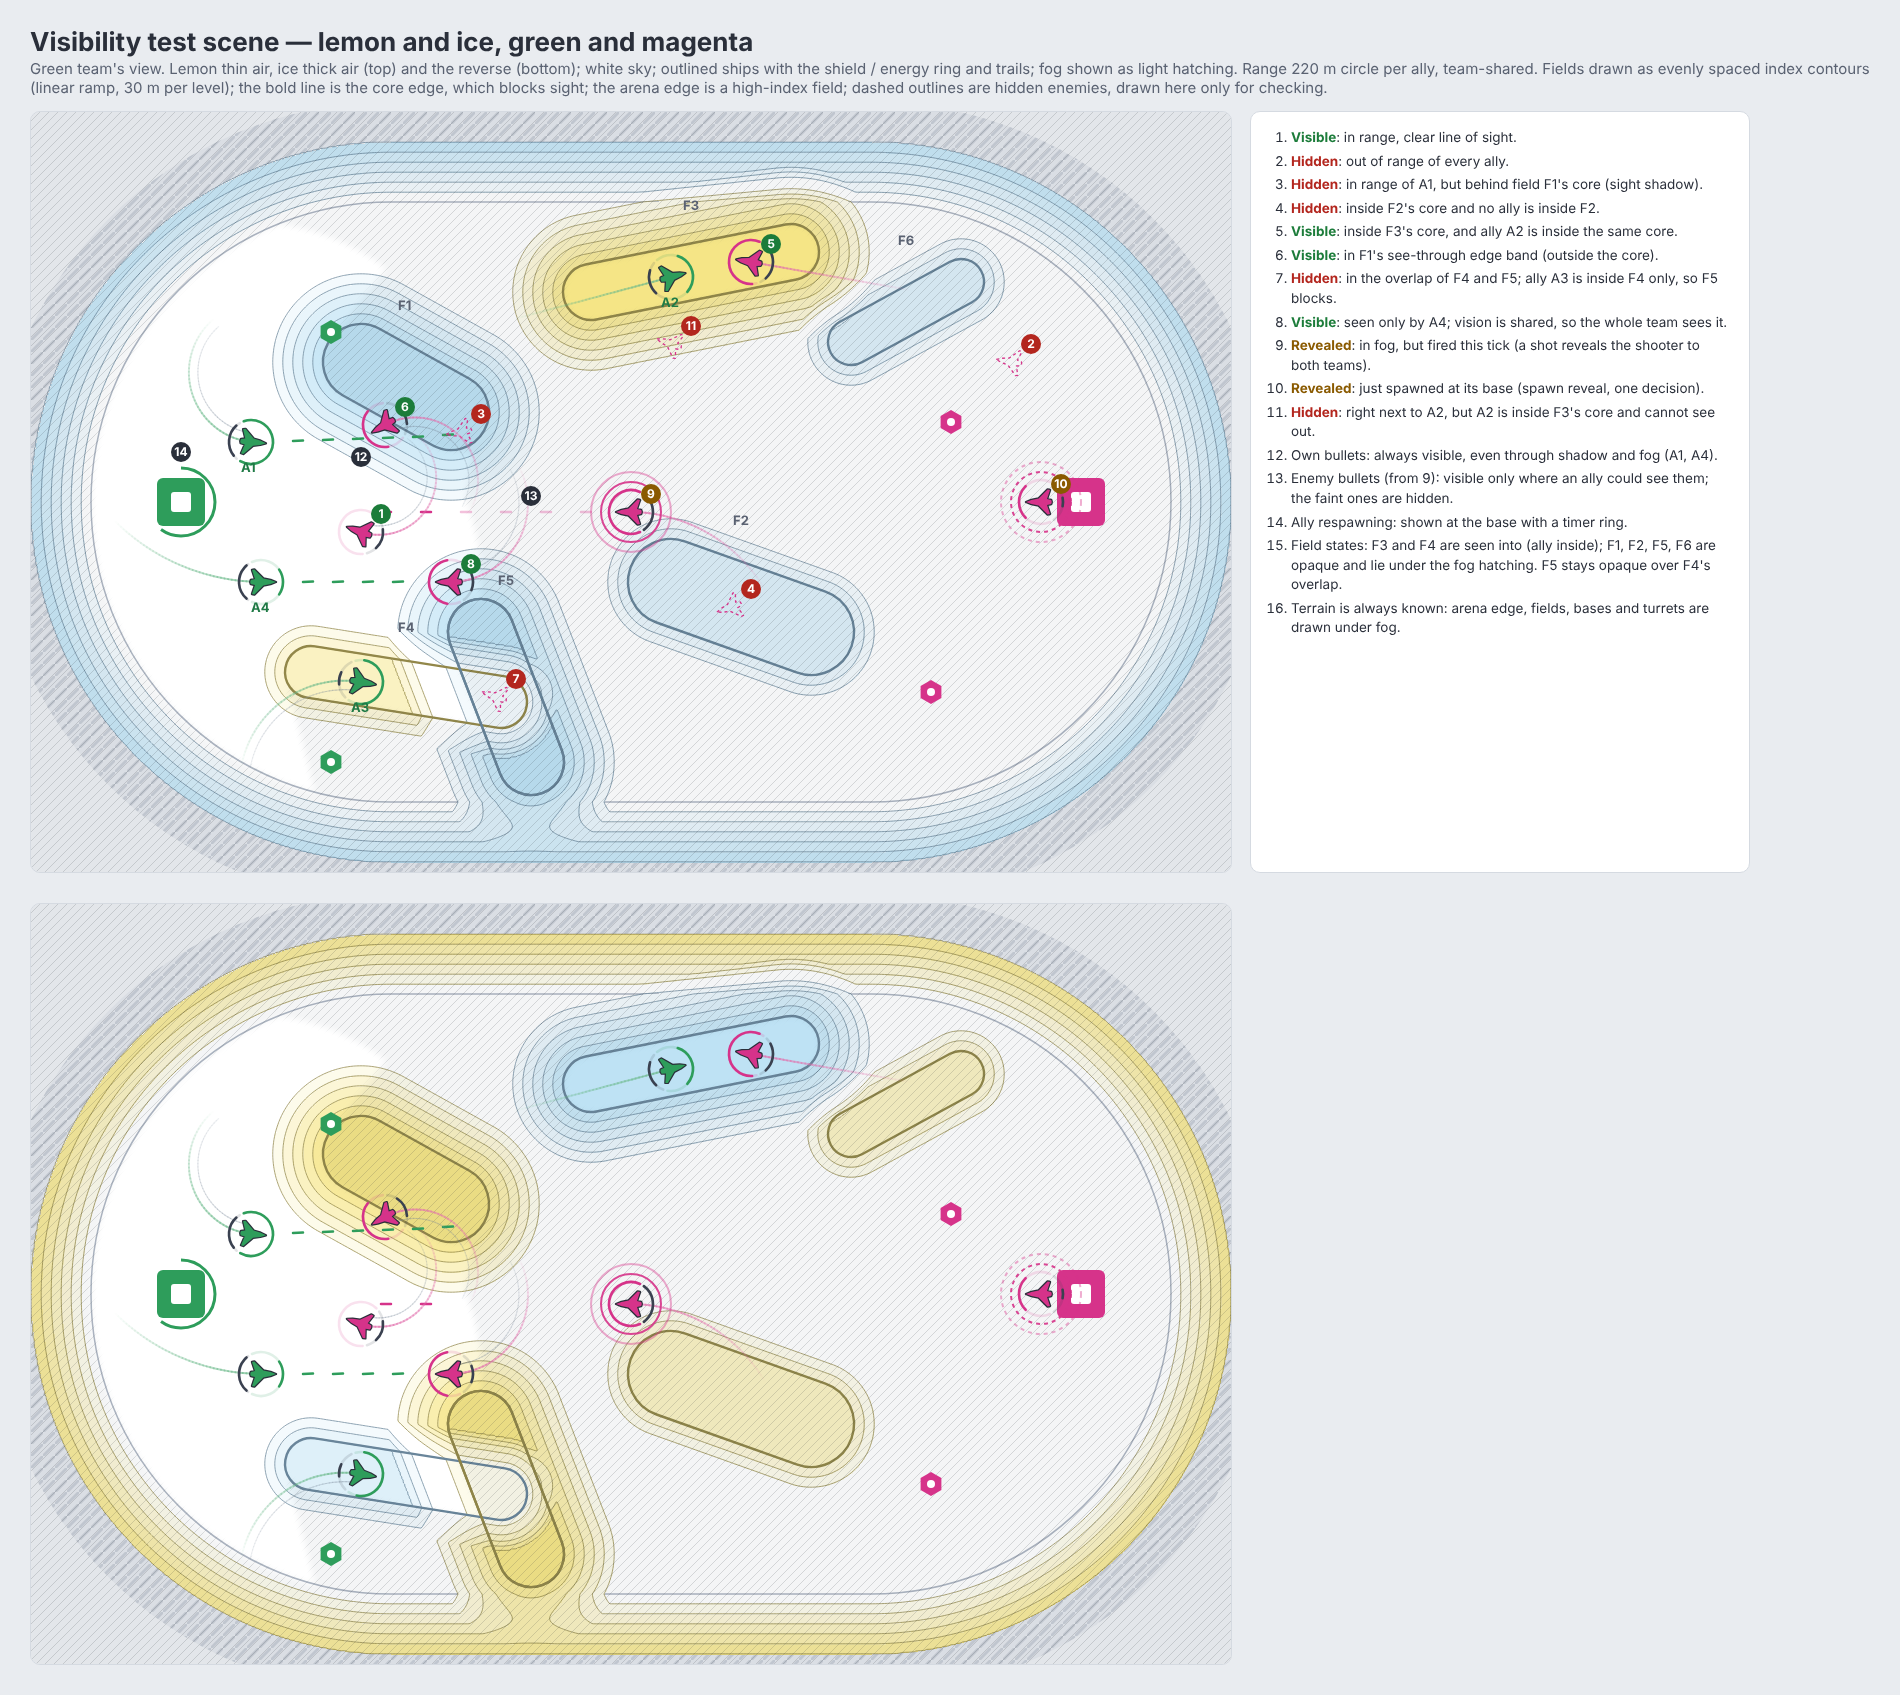
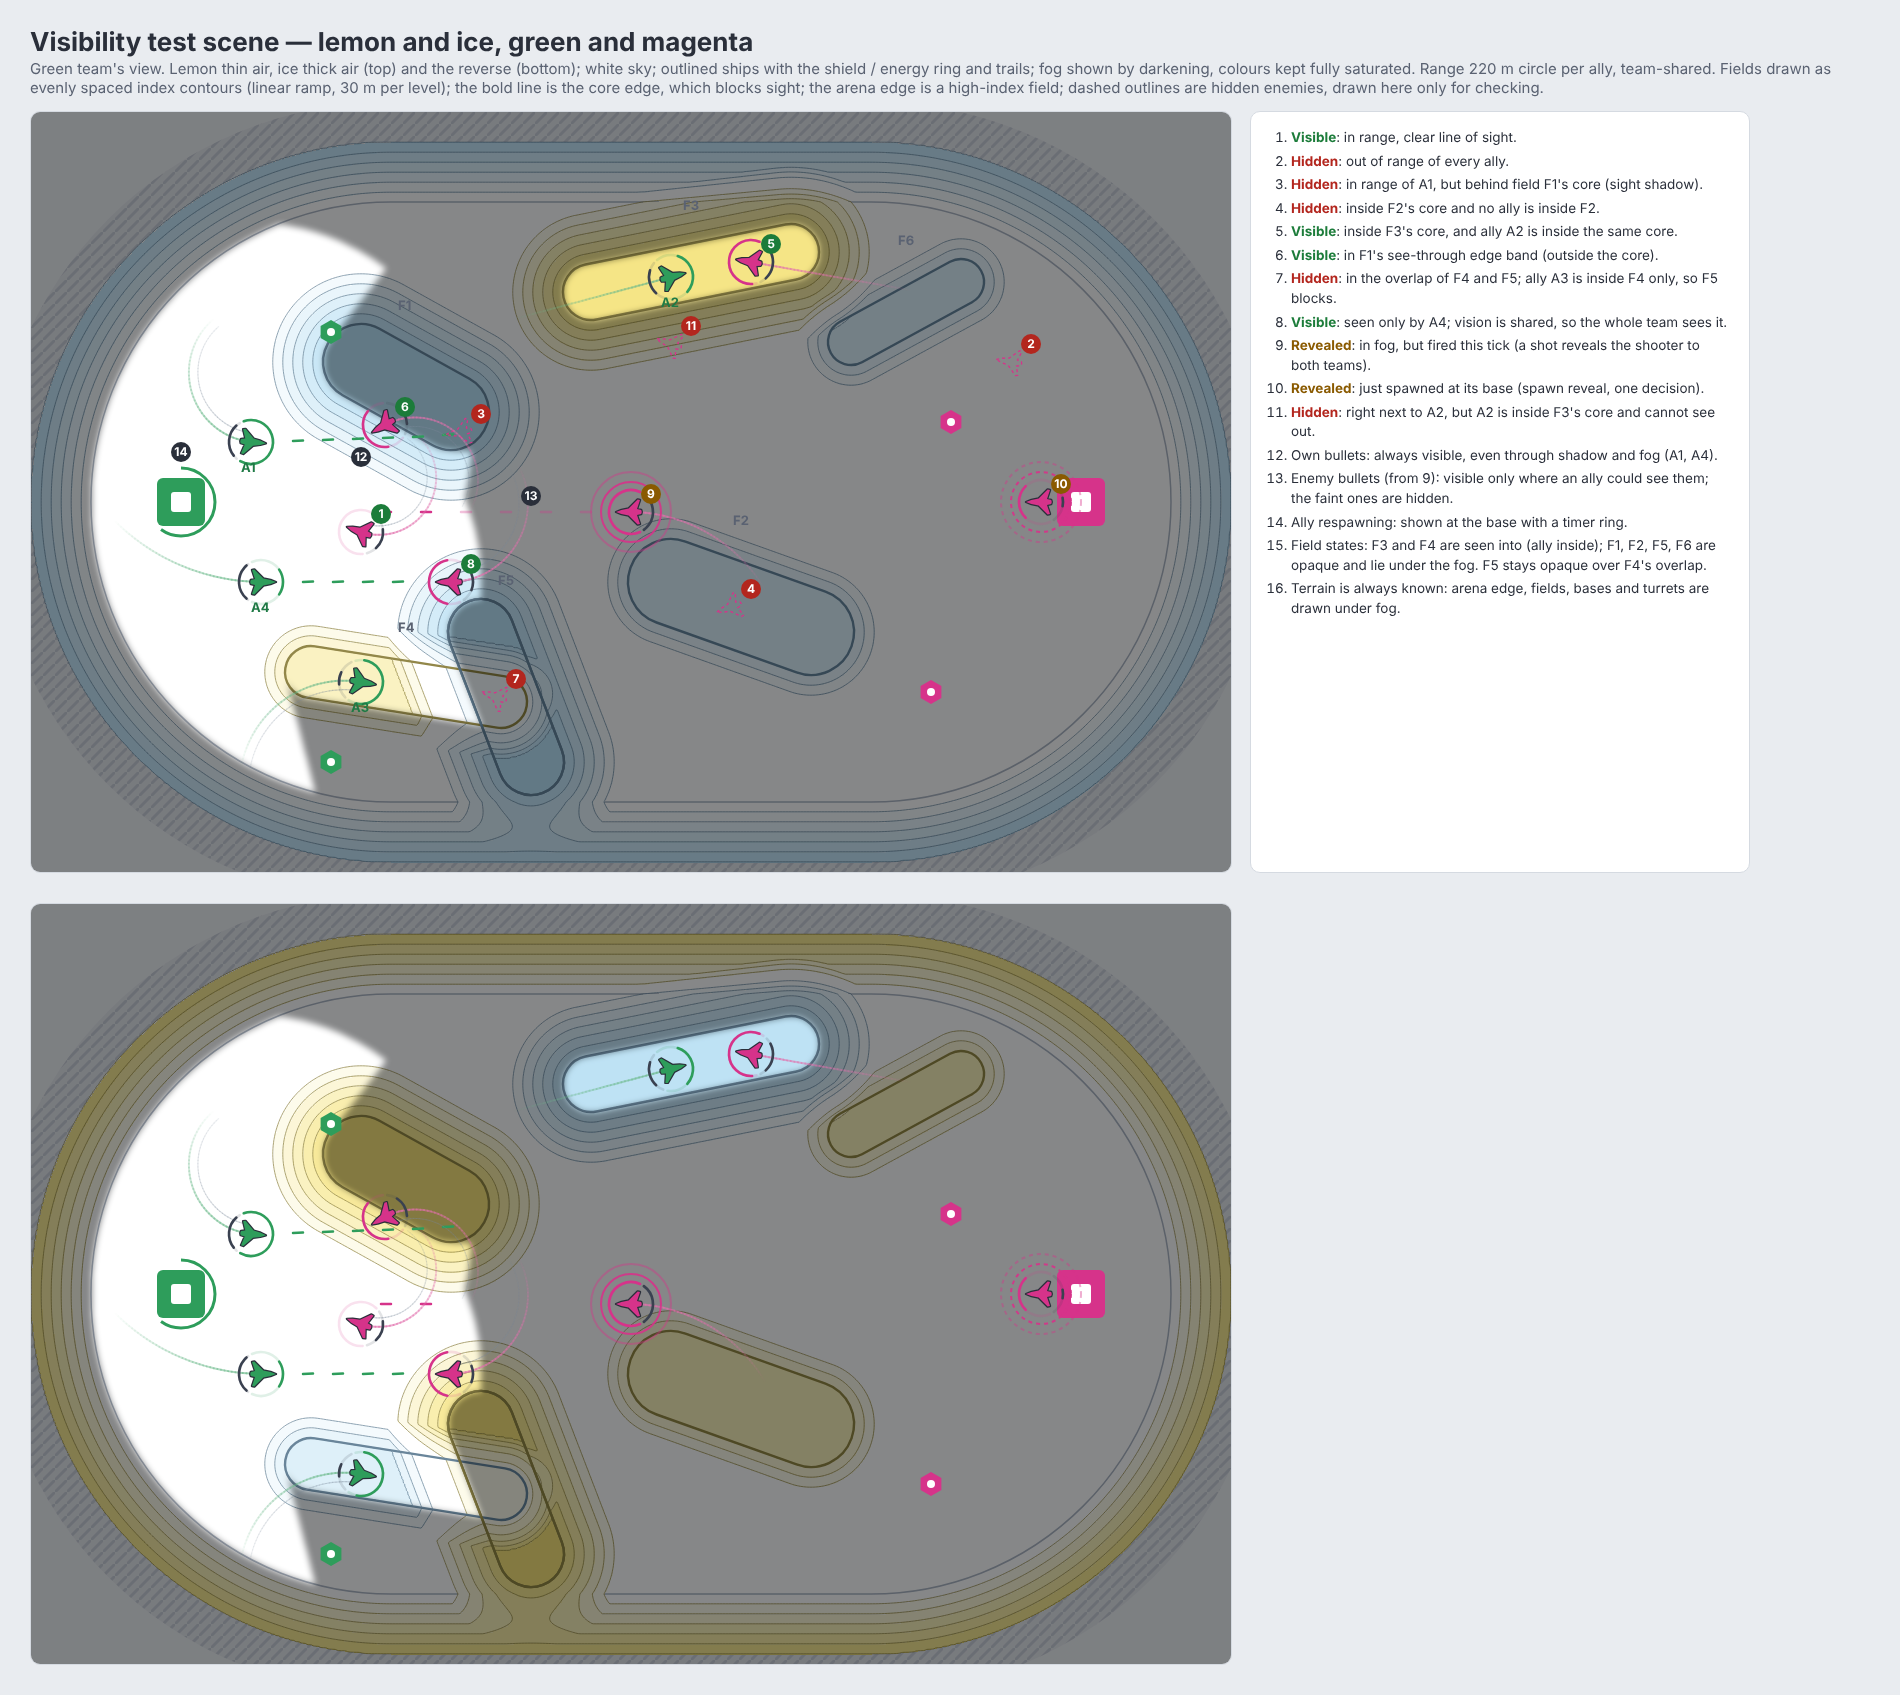
Show fog by darkening with full saturation
Claude-Session: https://claude.ai/code/session_01P1Nd21yxzZCeBGaTPvX14D

diff --git a/docs/rewrite/visual-mockups/test-lemon.html b/docs/rewrite/visual-mockups/test-lemon.html
@@ -6,7 +6,7 @@ ol{margin:0;padding:16px 18px 16px 40px;background:#fff;border:1px solid #D5DAE1
 li{margin-bottom:4px}b.v{color:#1C7C3A}b.h{color:#B3261E}b.r{color:#8A5A00}
 </style></head><body>
 <h1>Visibility test scene — lemon and ice, green and magenta</h1>
-<p class="sub">Green team's view. Lemon thin air, ice thick air (top) and the reverse (bottom); white sky; outlined ships with the shield / energy ring and trails; fog shown as light hatching. Range 220 m circle per ally, team-shared. Fields drawn as evenly spaced index contours (linear ramp, 30 m per level); the bold line is the core edge, which blocks sight; the arena edge is a high-index field; dashed outlines are hidden enemies, drawn here only for checking.</p>
+<p class="sub">Green team's view. Lemon thin air, ice thick air (top) and the reverse (bottom); white sky; outlined ships with the shield / energy ring and trails; fog shown by darkening, colours kept fully saturated. Range 220 m circle per ally, team-shared. Fields drawn as evenly spaced index contours (linear ramp, 30 m per level); the bold line is the core edge, which blocks sight; the arena edge is a high-index field; dashed outlines are hidden enemies, drawn here only for checking.</p>
 <div class="row"><canvas id="c" width="1200" height="760"></canvas><ol>
 <li><b class="v">Visible</b>: in range, clear line of sight.</li>
 <li><b class="h">Hidden</b>: out of range of every ally.</li>
@@ -22,7 +22,7 @@ li{margin-bottom:4px}b.v{color:#1C7C3A}b.h{color:#B3261E}b.r{color:#8A5A00}
 <li>Own bullets: always visible, even through shadow and fog (A1, A4).</li>
 <li>Enemy bullets (from 9): visible only where an ally could see them; the faint ones are hidden.</li>
 <li>Ally respawning: shown at the base with a timer ring.</li>
-<li>Field states: F3 and F4 are seen into (ally inside); F1, F2, F5, F6 are opaque and lie under the fog hatching. F5 stays opaque over F4's overlap.</li>
+<li>Field states: F3 and F4 are seen into (ally inside); F1, F2, F5, F6 are opaque and lie under the fog. F5 stays opaque over F4's overlap.</li>
 <li>Terrain is always known: arena edge, fields, bases and turrets are drawn under fog.</li>
 </ol></div>
 <div class="row"><canvas id="c2" width="1200" height="760"></canvas></div>
@@ -33,8 +33,7 @@ const mk=(lo,hi,name)=>Object.assign({},STYLES[0],{name,contourMap:1,perLevel:3,
   lowInk:'rgba('+mixHex(lo,'#1c2030',.45).join(',')+',.75)',highInk:'rgba('+mixHex(hi,'#1c2030',.45).join(',')+',.75)',minorW:1,majorW:1,
   thin:'#'+mixHex(lo,'#1c2030',.45).map(v=>v.toString(16).padStart(2,'0')).join(''),thick:'#'+mixHex(hi,'#1c2030',.45).map(v=>v.toString(16).padStart(2,'0')).join(''),
   coreLine:'kind',coreLineW:2.4,coreAlpha:0,bandAlpha:0,liftAlpha:0,pattern:null,arena:'#FFFFFF',edge:'#FFFFFF',edgeR:60,damageR:100,damage:'#E4E7EC',damageHatch:'#C9CED6',outside:'#EEF0F3',
-  team:['#2E9D5B','#D6338A'],energy:'#3A4150',outline:'#2A2F3A',modern:1,liftGlow:0,fogFilter:'none',
-  fogPattern:()=>mkPattern((p,s)=>{p.strokeStyle='rgba(42,47,58,.16)';p.lineWidth=1;p.beginPath();p.moveTo(-1,s+1);p.lineTo(s+1,-1);p.moveTo(-1,1);p.lineTo(1,-1);p.moveTo(s-1,s+1);p.lineTo(s+1,s-1);p.stroke()},9)});
+  team:['#2E9D5B','#D6338A'],energy:'#3A4150',outline:'#2A2F3A',modern:1,liftGlow:0,fogFilter:'brightness(.55) saturate(1.15)'});
 const S=mk(LEMON,ICE,'lemon-ice');render(cv,S,{truth:1});render(document.getElementById('c2'),mk(ICE,LEMON,'ice-lemon'));const c=cv.getContext('2d');
 c.font='bold 12px Inter,Arial';
 function badge(x,y,t,col){c.beginPath();c.arc(x,y,10,0,7);c.fillStyle=col;c.fill();c.fillStyle='#fff';c.textAlign='center';c.textBaseline='middle';c.fillText(t,x,y+.5)}
